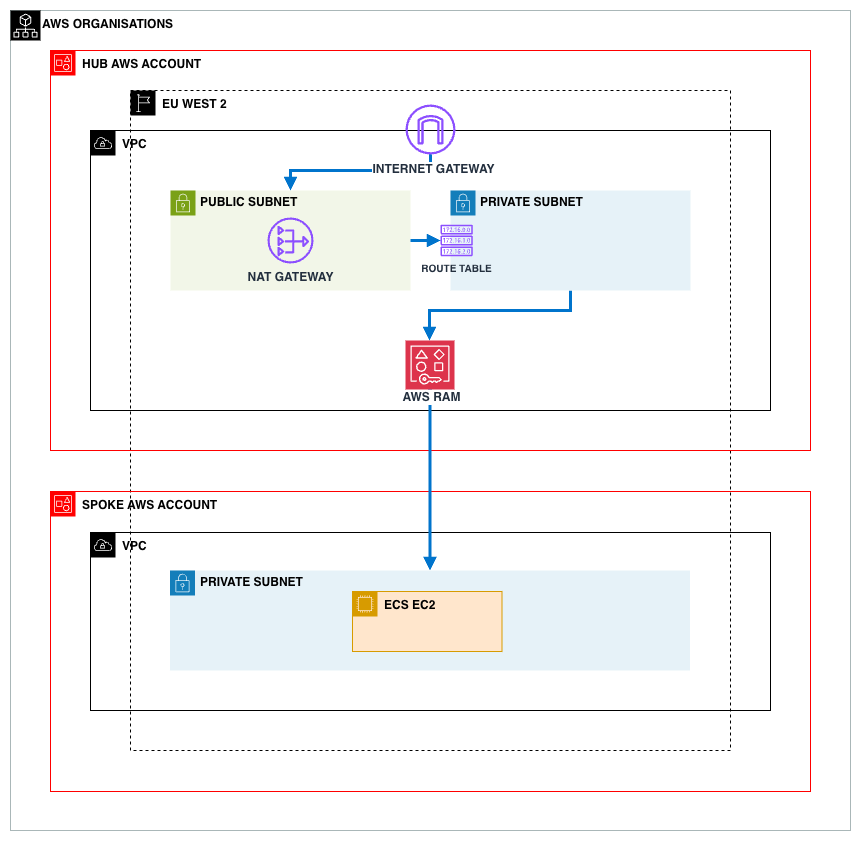
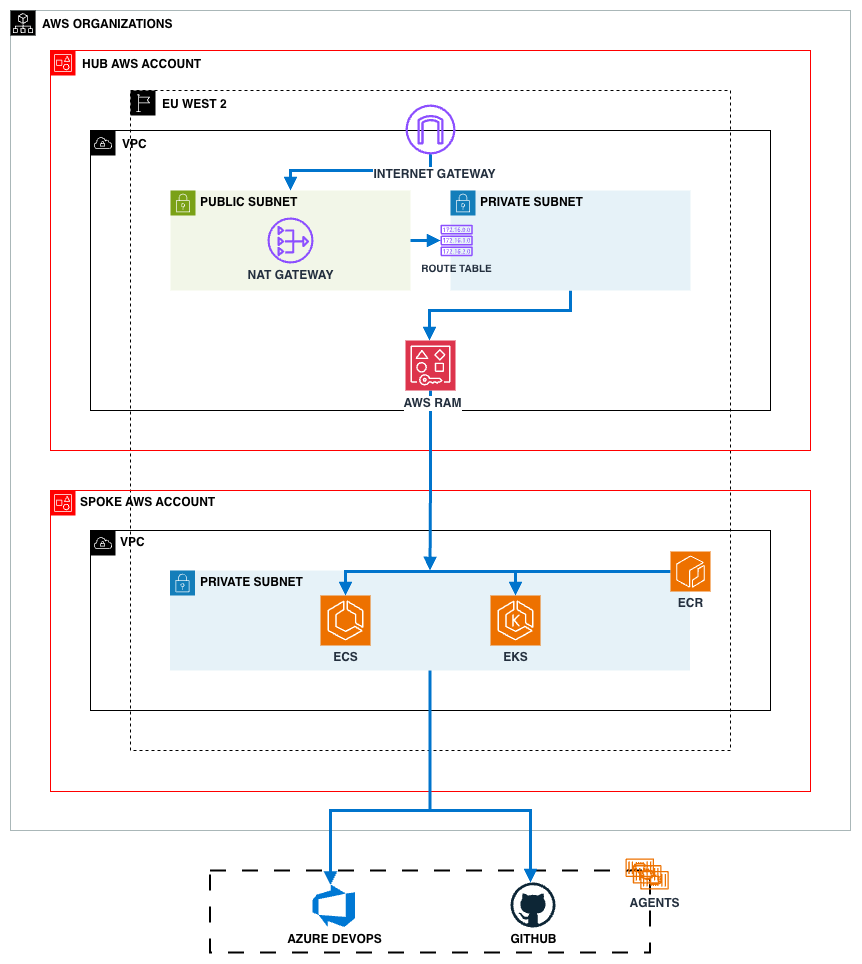
docs: update architecture diagram

diff --git a/README.md b/README.md
@@ -1,4 +1,4 @@
-<h1 align="center">aws-multi-account-agents 👋</h1>
+# aws-multi-account-agents
 
 ## Overview
 
